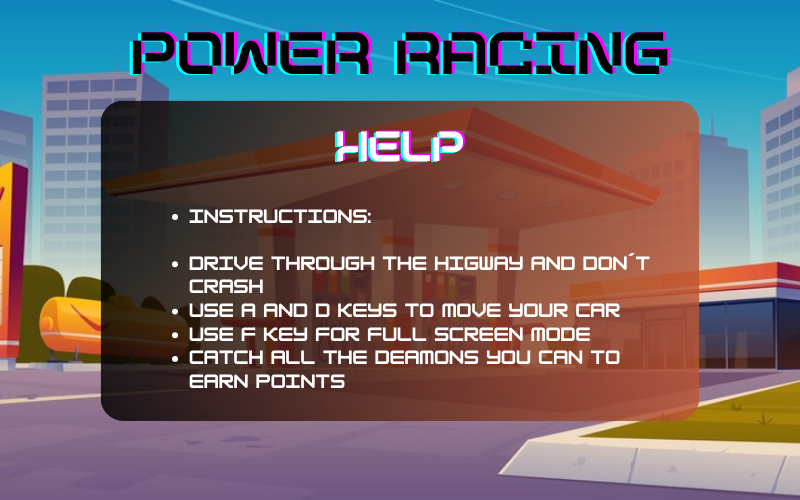
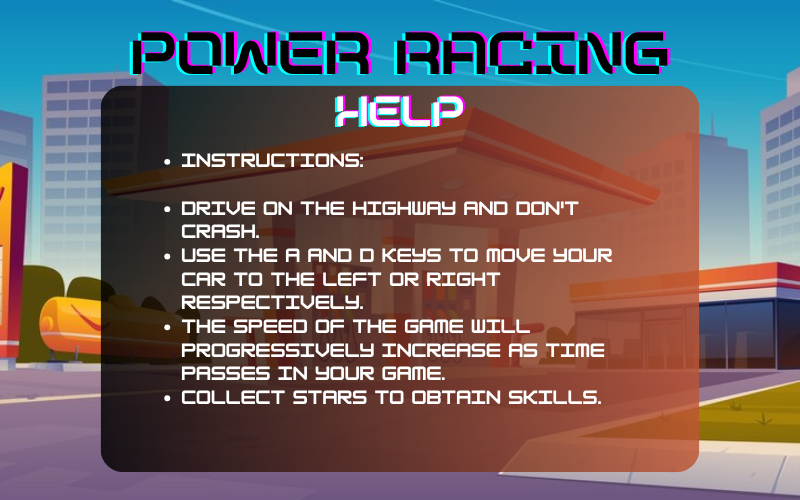
version 1.1
change help
add time

Changed region(s): [[0.1875, 0.39, 0.8125, 0.81], [0.125, 0.81, 0.875, 0.96], [0.125, 0.15, 0.875, 0.36]]

diff --git a/PowerRacing/Juego.py b/PowerRacing/Juego.py
@@ -94,7 +94,7 @@ def main_juego():
     game_over = False
     enemy_timer = 0
     power_timer = 0
-
+    tiempo = 0  # Tiempo de juego
     while not game_over:
         for event in pygame.event.get():
             if event.type == pygame.QUIT:
@@ -152,11 +152,14 @@ def main_juego():
         all_sprites.draw(screen_size)
         texto = "Vidas: " + str(settings.num_vidas-collision_count) 
         Texto1 = fuente.render(texto,False,white)
-        screen_size.blit(Texto1,(421,10))
+        screen_size.blit(Texto1,(700,10))
+        tiempo += 1 #Aumentamos enl tiempo con cada iteración
+        texto_tiempo = fuente.render("Time " + str(tiempo), False, white)   #creamos el texto del tiempo
+        screen_size.blit(texto_tiempo, (360, 10)) #Mostramos el tiempo en pantalla
         pygame.display.flip()
         clock.tick(60)
 
     pygame.quit()
     sys.exit()
 
-#main_juego()
+main_juego()

diff --git a/PowerRacing/Player.py b/PowerRacing/Player.py
@@ -33,15 +33,15 @@ class Player(pygame.sprite.Sprite):
     
     def process_event_car(self, event):
         if event.type == pygame.KEYDOWN:
-            if event.key == pygame.K_RIGHT:
+            if event.key == pygame.K_d:
                 self.moving_right = True
-            if event.key == pygame.K_LEFT:
+            if event.key == pygame.K_a:
                 self.moving_left = True
 
         if event.type == pygame.KEYUP:
-            if event.key == pygame.K_RIGHT:
+            if event.key == pygame.K_d:
                 self.moving_right = False
-            if event.key == pygame.K_LEFT:
+            if event.key == pygame.K_a:
                 self.moving_left = False
 
     def move_car(self):
